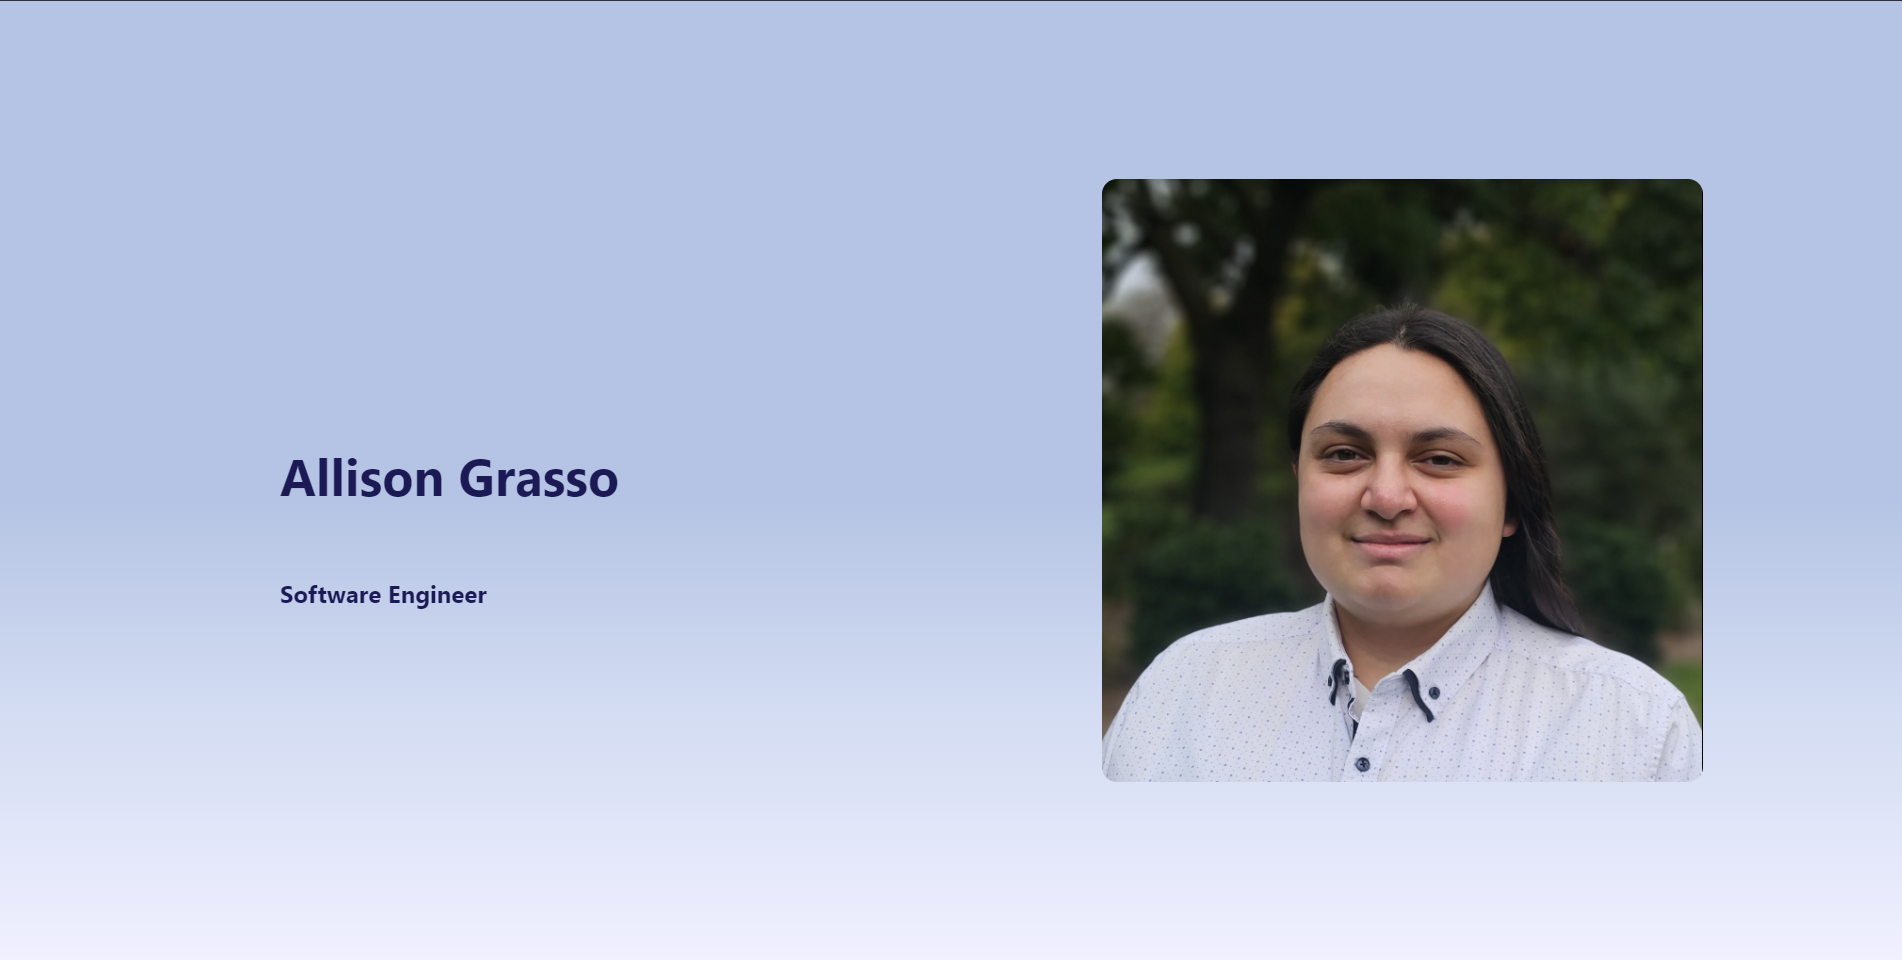
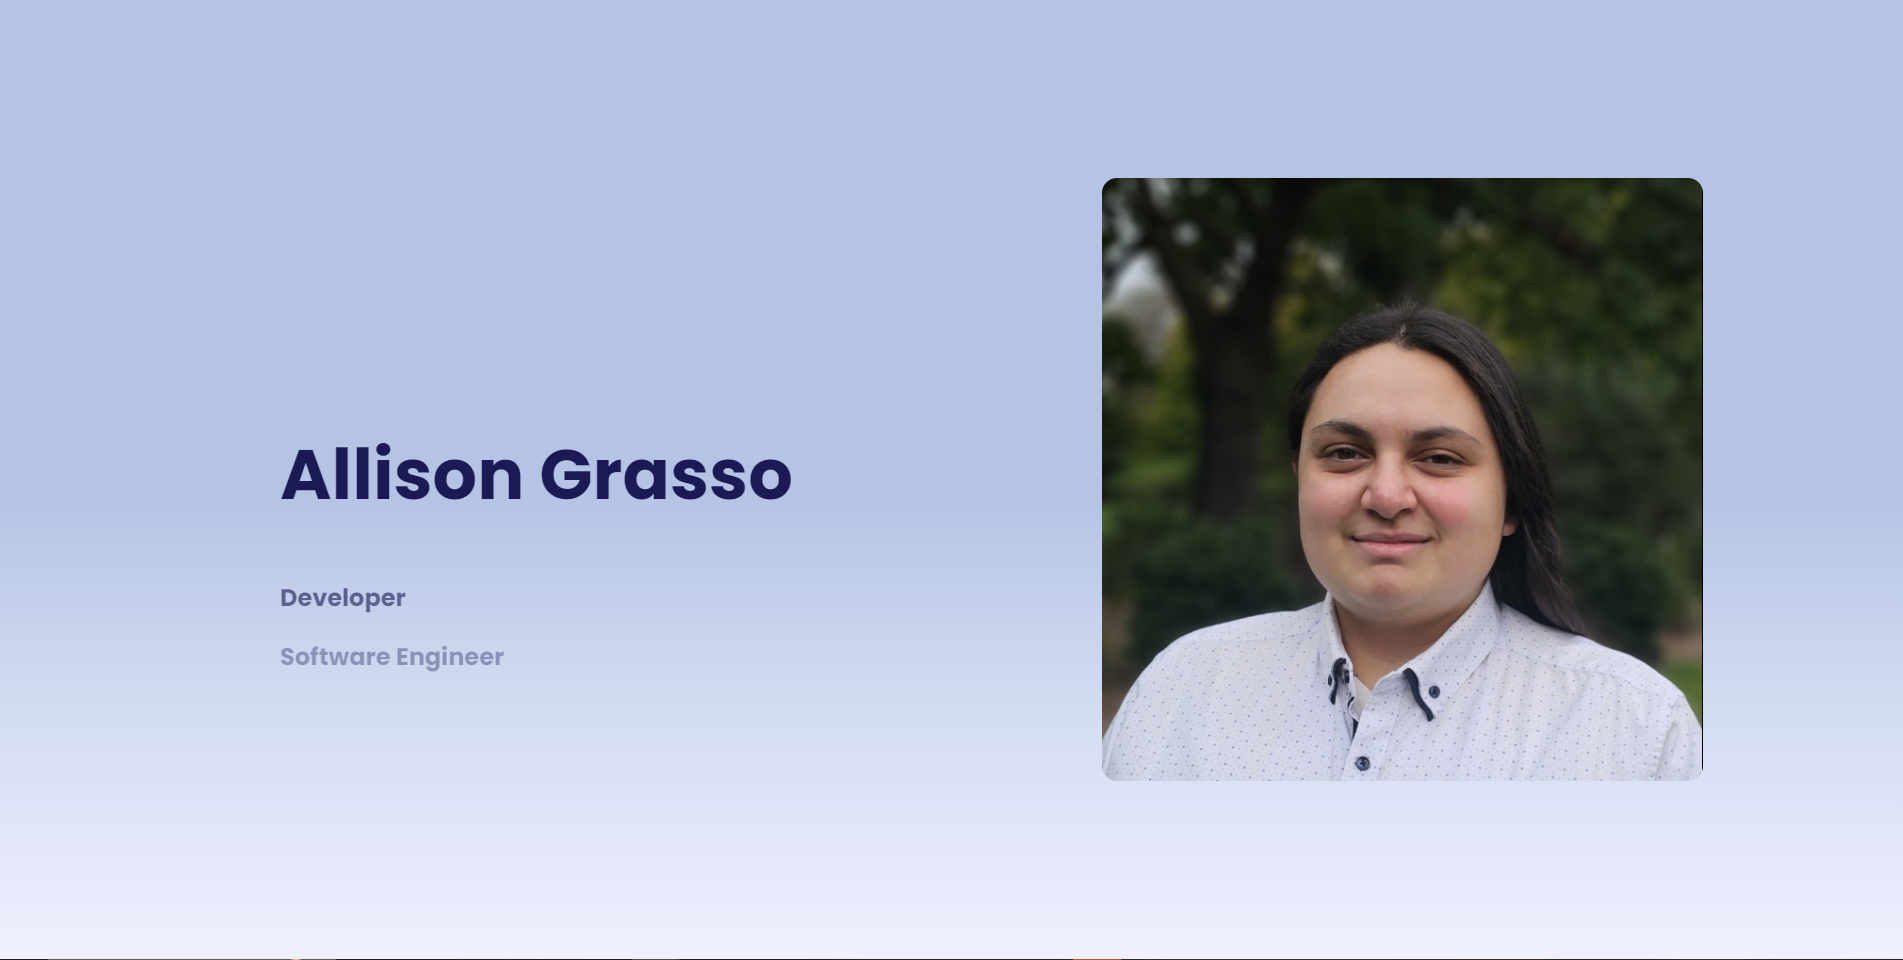
Final Touches

diff --git a/src/components/Projects.jsx b/src/components/Projects.jsx
@@ -1,21 +1,29 @@
-import projectList from "../constants/projectList"
-import CreateProject from "./CreateProject"
-// import PreviewProject from "./PreviewProject"
+import React, { useState } from "react";
+import projectList from "../constants/projectList"; 
+import CreateProject from "./CreateProject";
+import PreviewProject from "./PreviewProject";
 
 const Projects = () => {
+
+    const [selectedProject, setSelectedProject] = useState(null);
+
+    const handlePreview = (projectLink) => {
+        setSelectedProject(projectLink);
+    };
+
     return (
         <section>
             <h1>Project</h1>
 
             <div className="project-preview-section">
-                {/* <PreviewProject /> */}
+                {/* <PreviewProject previewLink={selectedProject}/> */}
                 {/* <iframe src='https://alligrass.github.io/project1_Solitaire/' frameborder="0" /> */}
             </div>
 
 
             <div className='projects-list-div'>
                {projectList.map((project, index) => (
-                    <CreateProject key={index} {...project} />
+                    <CreateProject key={index} {...project}/>
                 ))}
             </div>
         </section>

diff --git a/src/components/CreateProject.jsx b/src/components/CreateProject.jsx
@@ -2,18 +2,9 @@ import { useState } from "react";
 import codingLanguages from "../constants/codingLanguages"
 
 
+
 const CreateProject = ({ title, img_src, description, languages, preview_link }) => {
-    // const [canPreview, setCanPreview] = useState(false);
-    // const handlePreviewButton = (event) => {
-    //     const projectName = event.target.closest(".project-article").firstChild.innerHTML
-    //     // usePreviewProject(projectName)
-    // }
-
-
     const canPreview = preview_link !== '';
-
-
-    
 
     return (
         <article className="project-article">
@@ -29,7 +20,7 @@ const CreateProject = ({ title, img_src, description, languages, preview_link })
                     </div>
                     <div className="project-spec-div">
                         
-                        <button disabled={!canPreview}> {canPreview ? 'Preview' : 'Coming Soon'} </button>
+                        <button className='preview-button' disabled={!canPreview}> {canPreview ? 'Preview' : 'Coming Soon'} </button>
 
                         <ul className="project-lan-ul">
                             {languages.map((languageCode, index) => (

diff --git a/src/components/PreviewProject.jsx b/src/components/PreviewProject.jsx
@@ -1,23 +1,16 @@
 
 import { useEffect, useState } from "react";
-import projectList from "../constants/projectList";
+// import projectList from "../constants/projectList";
 
-const PreviewProject = (event) => {
-    const [currentPreviewProject, setCurrentPreviewProject] = useState()
-    // const projectName = event.target.closest(".project-article").firstChild.innerHTML
-    const projectObj = projectList.find(checkingProject => checkingProject['title'] === projectName)
+const PreviewProject = ({previewLink}) => {
+    [isVisible, setIsVisible] = useState(false)
 
-    const projectLink = projectObj?.['preview_link'] || '';
-    
     useEffect(() => {
-        setCurrentPreviewProject(projectLink)
-    }, [projectLink])
-
-    console.log(currentPreviewProject)
-    console.log(projectLink)
+        setIsVisible(previewLink === '');
+    }, [previewLink]);
 
     return (
-        <iframe src={currentPreviewProject} frameborder="0" />
+        isVisible ? (<iframe src={previewLink} frameborder="0" />) : null
     )
 }
 

diff --git a/src/components/Navbar.jsx b/src/components/Navbar.jsx
@@ -3,17 +3,15 @@ import useThemes from "../hooks/useThemes"
 
 
 const Navbar = () => {
-    const { checkDarkMode, toggleTheme } = useThemes();
+    const { checkDarkMode, toggleTheme, theme } = useThemes();
+
+
     return (
         <div className="navbar-container-div">
             <nav className="navbar">
                 <div className="toggle-theme-div">
                     <Switch checked={checkDarkMode} onChange={toggleTheme}
-                    checkedChildren="Dark" unCheckedChildren="Light"
-                    style={{
-                        color: checkDarkMode ? '#1a1a1d' : '#f0f0ff',  // Change background color based on state
-                        // borderColor: isDarkMode ? '#f0f0ff' : '#1a1a1d'
-                        }}/>
+                    style={{ backgroundColor: theme === 'dark-theme' ? '#f0f0ff' : '#1a1a1d'}}/>
                 </div>
             </nav>
         </div>

diff --git a/src/components/Resume.jsx b/src/components/Resume.jsx
@@ -1,10 +1,14 @@
 import { Image } from 'antd'
 import { useState } from 'react'
+import { saveAs } from 'file-saver';
 
 const Resume = () => {
     const [isPreviewVisible, setPreviewVisible] = useState(false);
 
-
+    const downloadResume = () => {
+        const resumeUrl = 'src/assets/placeholders/resume_placeholder.png'
+        saveAs(resumeUrl, 'Allison_Grasso_Resume.pdf')
+    }
 
     return (
         <div className="resume-div">
@@ -17,10 +21,8 @@ const Resume = () => {
                         setPreviewVisible(visible)
             }} src="src/assets/placeholders/resume_placeholder.png" alt="" />
 
-            
-
             <div className="resume-handling-div">
-                <button className='download-button'>Download</button>
+                <button className='download-button' onClick={downloadResume}>Download</button>
             </div>
         </div>
     )

diff --git a/src/components/Hero.jsx b/src/components/Hero.jsx
@@ -5,7 +5,7 @@ const Hero = () => {
         <div className='hero-div'>
             <section className="hero-section">
                 <article className='hero-article'>
-                    <h1>Allison Grasso</h1>
+                    <h1 className='hero-name'>Allison Grasso</h1>
                     <ScrollingText />
                     {/* <span>Lorem ipsum dolor sit amet consectetur adipisicing elit. Facere molestiae culpa quod! Adipisci eius architecto libero magnam! Tenetur nihil hic praesentium voluptatibus obcaecati velit, officiis odio quos dicta, adipisci laboriosam.</span> */}
                 </article>

diff --git a/src/App.css b/src/App.css
@@ -1,4 +1,7 @@
+@import url('https://fonts.googleapis.com/css2?family=Gupter:wght@400;500;700&family=Poppins:ital,wght@0,100;0,200;0,300;0,400;0,500;0,600;0,700;0,800;0,900;1,100;1,200;1,300;1,400;1,500;1,600;1,700;1,800;1,900&display=swap');
+
 #root {
+  font-family: 'Poppins', serif;
   width: 100%;
   margin: 0 auto;
 }
@@ -103,9 +106,6 @@ img {
   align-items: center;
 }
 
-.nav-left-arrow-div p, .nav-right-arrow-div p {
-  padding-bottom: 13px;
-}
 
 /* Footer */
 
@@ -184,6 +184,10 @@ footer {
 
 .hero-article {
   margin: 80px;
+}
+
+.hero-name {
+  font-size: 70px;
 }
 
 .hero-img {

diff --git a/src/hooks/useThemes.js b/src/hooks/useThemes.js
@@ -8,7 +8,6 @@ const useThemes = () => {
     
     const toggleTheme = (checked) => {
         setIsDarkMode(checked)
-
     }
 
     useEffect(() => {
@@ -20,7 +19,9 @@ const useThemes = () => {
         themeLink.href = isDarkMode ? "src/styles/dark-theme.css" : "src/styles/light-theme.css"
     }, [isDarkMode])
     
-    return { isDarkMode, toggleTheme };
+    const theme = isDarkMode ? 'dark-theme' : 'light-theme'
+
+    return { isDarkMode, toggleTheme, theme };
 }
 
 export default useThemes

diff --git a/src/components/Contact.jsx b/src/components/Contact.jsx
@@ -23,7 +23,7 @@ const Contact = () => {
             <h2>Contact</h2>
             <section className="contact-list-section">
                 {contactList.map((social, index) => (
-                    <a className='method-contact-div' key={index}>
+                    <a className='method-contact-div' href={social.link} key={index}>
                         <img src={social.img_src} alt="" />
                     </a>
                 ))}

diff --git a/src/styles/dark-theme.css b/src/styles/dark-theme.css
@@ -47,3 +47,8 @@ footer {
 .project-article{
     background: #3B1C32;
 }
+
+.download-button, .preview-button {
+    background-color: #1A1A1D;
+    color: #f0f0ff;
+}

diff --git a/src/styles/light-theme.css b/src/styles/light-theme.css
@@ -47,3 +47,8 @@ footer {
 .project-article{
     background: #d2d6ff;
 }
+
+.download-button, .preview-button {
+    background-color: #1B1A55;
+    color: #f0f0ff;
+}

diff --git a/README.md b/README.md
@@ -1,1 +1,62 @@
-# project4-portfolio
+# Welcome to my Portfolio Website
+
+Here is my website that was created using React, Vite, Javascript, and AntDesign. Unfortunately the website is still a work in progress as, for the most part, there are some aspects of the website that are unrelated to the website itself but is crucial to its development.
+
+![Opening Text](src/assets/development/main_8.png)
+
+### Things that are hindering further progress on the website include: 
+
+- Resume
+- Suitably Presentable Projects
+
+## Planning
+
+As always I laid out the plans for what my page would look like before I began my work on the site itself.
+
+![Main Page Plan](src/assets/development/planning_2.png)
+![Project Page Plan](src/assets/development/planning_1.png)
+![Resume Page Plan](src/assets/development/planning_4.png)
+
+## Developement
+
+Most of the design of this page was to mimic other portfolio websites that I liked personally, so a lot of time was spent on the CSS of the website.
+
+![Working Main Page](src/assets/development/main_4.png)
+![Working Project Page](src/assets/development/project_3.png)
+
+There was a stalemate on the resume page as the preview image would stretch to fit the window rather than maintain its aspect ratio. This was fixed by the fact I had initialised img width to 100% 
+
+![Stretched Resume Preview](src/assets/development/resume_2.png)
+
+Finally I implemented the dark mode button, efficiently shifting the page between light and dark themes from separate CSS files.
+
+![Skills Light Mode](src/assets/development/main_6.png)
+![Skills Dark Mode](src/assets/development/main_7.png)
+
+The main issue with the projects being incomplete is the fact they can't effectively be displayed
+
+![Solitaire Preview](src/assets/development/project_preview.png)
+
+## Future Improvements
+
+- Fully Functional Projects
+
+        This would be ideal to be able to preview my works in the dedicated previewing section I had left for myself. Of course the complete implementation of the preview section would also be necessary, however that is trivial in comparison to the actual projects themselves.
+
+- Browser Router
+
+        Currently the site utilises a hash router which is perfectly functional, however in terms of overall outlook it would be professional to include a browser router to remove the hash from the url.
+
+- Github Dark Logo
+
+        Originally, depending on what theme the page currently has, would determine what logo would be displayed. Because the usual logo is completely black it would be unideal to use this on dark mode. I am aware that this is possible if I were to use react contexts.
+
+- More Animations
+
+        Some places I'd input animations would be the skills circles so when you hover over them they appear to lift up and move as you move your cursor. I'd also put in the movement between pages so that pages appear to slide between each other.
+
+- Minor Design Changes
+
+        There are a few stylistci choices that could make do with a revamp, all minor and possible to do within an hour, however they require other aspects to be complete before I can fully implement them. The only one that I could dedicate towards currently is the scroll of text on the Hero of the main page. 
+        
+        Originally the plan was to have them scroll exponentially quickly before slowing to a stop on one of the texts, halting for a few seconds before beginning the cycle again.
